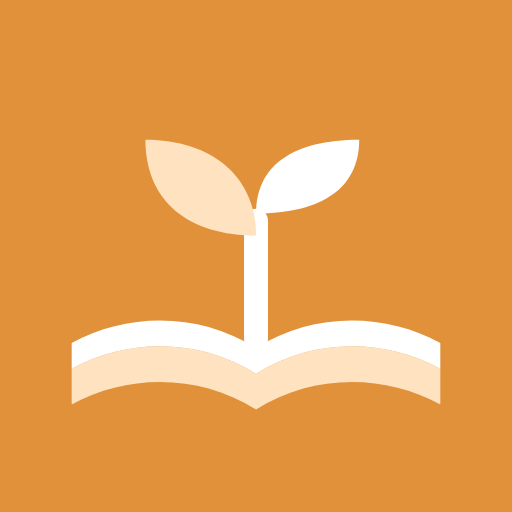
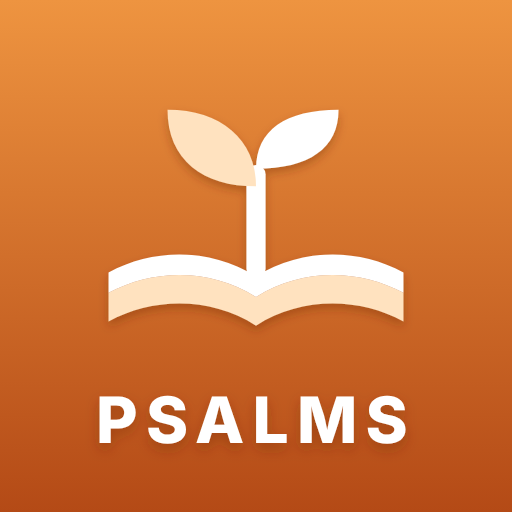
Add files via upload

diff --git a/index.html b/index.html
@@ -241,7 +241,7 @@ button:focus-visible{outline:2.5px solid var(--amber);outline-offset:3px;border-
 /* 4단계: 설치 안내 */
 .ob{position:fixed;inset:0;z-index:40;overflow:auto;background:linear-gradient(180deg,var(--glow) 0,var(--glow2) 260px,var(--paper) 460px)}
 .ob .obin{max-width:440px;min-height:100%;margin:0 auto;display:flex;flex-direction:column;align-items:center;text-align:center;padding:calc(env(safe-area-inset-top,0px) + 120px) var(--side) calc(env(safe-area-inset-bottom,0px) + 32px)}
-.ob .ic{width:84px;height:84px;border-radius:22px;overflow:hidden;box-shadow:0 10px 24px rgba(224,145,58,.28)}
+.ob .ic{width:84px;height:84px;border-radius:22px;overflow:hidden;box-shadow:0 10px 24px rgba(180,74,22,.28)}
 .ob .ic svg{display:block;width:100%;height:100%}
 .ob .nm{font-size:15px;font-weight:700;color:var(--sub);margin-top:12px}
 .ob h2{margin:34px 0 0;font-size:22px;font-weight:800;letter-spacing:-.6px;line-height:1.4}
@@ -258,6 +258,15 @@ button:focus-visible{outline:2.5px solid var(--amber);outline-offset:3px;border-
 .ob .steps div{display:flex;align-items:center;gap:10px;font-size:16px;font-weight:700}
 .ob .steps em{font-style:normal;width:26px;height:26px;border-radius:50%;background:var(--amber);color:#fff;font-size:14px;display:flex;align-items:center;justify-content:center;flex-shrink:0}
 .ob .prep{margin-top:30px;font-size:15px;color:var(--sub)}
+.ob .wrap{position:relative;margin-top:34px}
+.ob .big{width:112px;height:112px;border-radius:28px;overflow:hidden;box-shadow:0 12px 28px rgba(180,74,22,.32)}
+.ob .big svg{width:100%;height:100%;display:block}
+.ob .badge{position:absolute;right:-10px;top:-10px;width:34px;height:34px;border-radius:50%;background:#3E9B5B;border:3px solid var(--paper);display:flex;align-items:center;justify-content:center}
+.ob .bn{font-size:15px;font-weight:700;margin-top:10px}
+.ob .stps{display:flex;flex-direction:column;align-items:flex-start;gap:10px;margin-top:24px;text-align:left}
+.ob .stp{display:flex;align-items:center;gap:10px;font-size:16.5px;font-weight:700}
+.ob .stp em{font-style:normal;width:26px;height:26px;border-radius:50%;background:var(--amber);color:#fff;font-size:14px;display:flex;align-items:center;justify-content:center;flex-shrink:0}
+.ob .stp .k{width:34px;height:34px;border-radius:10px;background:var(--sheet);box-shadow:inset 0 0 0 1.4px var(--chipLine);display:flex;align-items:center;justify-content:center}
 .verlab{margin:0 var(--side) 30px;font-size:12px;color:var(--faint)}
 
 @media (prefers-reduced-motion:reduce){*{transition:none!important}}
@@ -914,7 +923,7 @@ setInterval(tick,30000);
 document.addEventListener("visibilitychange",function(){if(document.visibilityState==="visible")tick()});
 if(S.plan)autoNext();
 /* ---------- 설치 안내 (4단계) ---------- */
-var APP_VER="v16";
+var APP_VER="v17";
 var UA=navigator.userAgent||"";
 var IS_KAKAO=/KAKAOTALK/i.test(UA);
 var IS_IOS=/iPhone|iPad|iPod/i.test(UA)||(navigator.platform==="MacIntel"&&navigator.maxTouchPoints>1);
@@ -927,17 +936,17 @@ var installEvt=null,installStarted=false,instWaitDone=false;
 window.addEventListener("beforeinstallprompt",function(e){e.preventDefault();installEvt=e;if(obOpen())drawOb()});
 window.addEventListener("appinstalled",function(){installStarted=true;installEvt=null;if(obOpen())drawOb()});
 setTimeout(function(){instWaitDone=true;if(obOpen())drawOb()},4000);
-var ICON_SVG='<svg viewBox="0 0 100 100" aria-hidden="true"><rect width="100" height="100" fill="#E0913A"/><path d="M14 72c11-6 25-6 36 1 11-7 25-7 36-1v7c-11-6-25-6-36 1-11-7-25-7-36-1z" fill="#FFE2BF"/><path d="M14 67c11-6 25-6 36 1v5c-11-7-25-7-36-1z" fill="#fff"/><path d="M50 68c11-7 25-7 36-1v5c-11-6-25-6-36 1z" fill="#fff"/><g transform="translate(50 46) scale(.72) translate(-50 -52)"><path d="M50 80V48" stroke="#fff" stroke-width="6.5" stroke-linecap="round"/><path d="M50 52C50 36 38 26 20 26c0 17 12 26 30 26z" fill="#FFE2BF"/><path d="M50 46c0-13 10-20 28-20 0 13-10 20-28 20z" fill="#fff"/></g></svg>';
+var ICON_SVG='<svg aria-hidden="true" viewBox="0 0 100 100"><defs><linearGradient id="gpz" x1="0" y1="0" x2="0" y2="1"><stop offset="0" stop-color="#EE9440"/><stop offset="1" stop-color="#B44A16"/></linearGradient><filter id="spz" x="-20%" y="-20%" width="140%" height="140%"><feDropShadow dx="0" dy="1.2" stdDeviation="1.2" flood-color="#6B2E05" flood-opacity=".35"/></filter></defs><rect width="100" height="100" fill="url(#gpz)"/><g transform="translate(50 42) scale(.8) translate(-50 -53)" filter="url(#spz)"><path d="M14 72c11-6 25-6 36 1 11-7 25-7 36-1v7c-11-6-25-6-36 1-11-7-25-7-36-1z" fill="#FFE2BF"/><path d="M14 67c11-6 25-6 36 1v5c-11-7-25-7-36-1z" fill="#fff"/><path d="M50 68c11-7 25-7 36-1v5c-11-6-25-6-36 1z" fill="#fff"/><g transform="translate(50 46) scale(.72) translate(-50 -52)"><path d="M50 80V48" stroke="#fff" stroke-width="6.5" stroke-linecap="round"/><path d="M50 52C50 36 38 26 20 26c0 17 12 26 30 26z" fill="#FFE2BF"/><path d="M50 46c0-13 10-20 28-20 0 13-10 20-28 20z" fill="#fff"/></g></g><text x="50" y="86.5" text-anchor="middle" font-family="Inter" font-weight="800" font-size="12.5" letter-spacing="1.6" fill="#fff" filter="url(#spz)">PSALMS</text></svg>';
 function obIc(n,s){return '<svg width="'+(s||20)+'" height="'+(s||20)+'" viewBox="0 0 24 24" fill="none" stroke="currentColor" stroke-width="2.2" stroke-linecap="round" stroke-linejoin="round" aria-hidden="true">'+n+'</svg>'}
 var IC_SHARE=obIc('<path d="M12 3v12M7 8l5-5 5 5"/><path d="M5 12v7a2 2 0 0 0 2 2h10a2 2 0 0 0 2-2v-7"/>'),IC_PLUS=obIc('<rect x="4" y="4" width="16" height="16" rx="3"/><path d="M12 8v8M8 12h8"/>'),
   IC_UP=obIc('<path d="M7 17L17 7M9 7h8v8"/>'),IC_DL=obIc('<path d="M12 4v11M7 10l5 5 5-5M5 20h14"/>'),IC_DOTS=obIc('<circle cx="5" cy="12" r="1.3" fill="currentColor"/><circle cx="12" cy="12" r="1.3" fill="currentColor"/><circle cx="19" cy="12" r="1.3" fill="currentColor"/>'),
-  IC_VDOTS=obIc('<circle cx="12" cy="5" r="1.3" fill="currentColor"/><circle cx="12" cy="12" r="1.3" fill="currentColor"/><circle cx="12" cy="19" r="1.3" fill="currentColor"/>'),IC_OK=obIc('<path d="M5 12.5l4.5 4.5L19 7.5"/>',30);
+  IC_VDOTS=obIc('<circle cx="12" cy="5" r="1.3" fill="currentColor"/><circle cx="12" cy="12" r="1.3" fill="currentColor"/><circle cx="12" cy="19" r="1.3" fill="currentColor"/>'),IC_OK='<svg width="16" height="16" viewBox="0 0 24 24" fill="none" stroke="#fff" stroke-width="3.2" stroke-linecap="round" stroke-linejoin="round" aria-hidden="true"><path d="M5 12.5l4.5 4.5L19 7.5"/></svg>',IC_X=obIc('<path d="M6 6l12 12M18 6L6 18"/>',18);
 var obEl=null,obForce=false;
 function obOpen(){return !!(obEl&&document.body.contains(obEl))}
 function head(){return '<div class="ic">'+ICON_SVG+'</div><div class="nm">시편 읽기표</div>'}
 function obBody(){
   if(IS_STANDALONE) return head()+'<h2>이미 설치되어 있어요</h2><p class="pp">홈 화면의 새싹 아이콘으로 열면 돼요</p><button type="button" class="later" data-ob="close">닫기</button>';
-  if(installStarted) return '<div class="chk" style="color:var(--amber)">'+IC_OK+'</div><h2>설치하고 있어요</h2><p class="pp">이 창은 닫고, 새싹 아이콘으로<br>열어 주세요</p><p class="sm">아이콘이 안 보이면 앱스 화면에서 찾아 주세요</p><button type="button" class="later" data-ob="close">알겠어요</button>';
+  if(installStarted) return '<h2 style="margin-top:0">설치가 끝났어요</h2><p class="pp">이제 앱으로 열어 주세요</p><div class="wrap"><div class="big">'+ICON_SVG+'</div><div class="badge">'+IC_OK+'</div></div><div class="bn">시편 읽기표</div><div class="stps"><div class="stp"><em>1</em>이 인터넷 창 닫기 <span class="k">'+IC_X+'</span></div><div class="stp"><em>2</em>휴대폰 화면에서 이 아이콘 누르기</div></div><p class="sm">아이콘이 안 보이면 앱스 화면에서 찾아 주세요</p><button type="button" class="later" data-ob="close">알겠어요</button>';
   if(IS_IOS){
     if(IS_KAKAO) return head()+'<h2>사파리로 열어 주세요</h2><p class="pp">카카오톡 안에서는 설치가 안 되고<br>기록이 사라질 수 있어요</p><div class="steps"><div><em>1</em>오른쪽 아래 '+IC_DOTS+' 누르기</div><div><em>2</em>Safari로 열기</div></div><p class="sm">안 되면 <button type="button" data-ob="copy">주소 복사하기</button></p><button type="button" class="later" data-ob="close">그냥 여기서 볼게요</button>';
     return head()+'<h2>홈 화면에 추가해요</h2><p class="pp">아래 두 개만 눌러 주세요</p><div class="pair"><span class="k">'+IC_SHARE+'</span>공유<span class="ar">›</span><span class="k">'+IC_PLUS+'</span>홈 화면에 추가</div><p class="sm">공유 버튼은 화면 아래(또는 주소창 옆)에 있어요</p><button type="button" class="later" data-ob="close">나중에 할게요</button>';

diff --git a/sw.js b/sw.js
@@ -1,5 +1,5 @@
 /* 시편 읽기표 오프라인 파일 — 고칠 때마다 VER 숫자를 올려 주세요 */
-var VER="psalm-v16";
+var VER="psalm-v17";
 var FILES=["./","index.html","manifest.webmanifest","icon-192.png","icon-512.png","icon-maskable-512.png","apple-touch-icon.png","favicon-32.png"];
 self.addEventListener("install",function(e){
   e.waitUntil(caches.open(VER).then(function(c){return c.addAll(FILES)}).then(function(){return self.skipWaiting()}));

diff --git a/README.md b/README.md
@@ -1,4 +1,4 @@
-# 시편 읽기표 v16
+# 시편 읽기표 v17
 
 시편 150편 읽기 체크 앱입니다. (성경 본문은 없고, 읽은 편만 체크합니다)
 
@@ -16,7 +16,7 @@
 
 ## 고칠 때
 - `index.html` 을 바꿔 올리면 다음에 앱을 열 때 새 버전이 보여요.
-- 같이 `sw.js` 첫 줄의 `psalm-v16` 숫자도 올려 주세요 (예: `psalm-v17`).
+- 같이 `sw.js` 첫 줄의 `psalm-v17` 숫자도 올려 주세요 (예: `psalm-v18`).
 
 ## 주의
 - 기록은 각자 휴대폰(그 브라우저)에만 저장돼요. 다른 폰으로 옮길 때는 설정 → 기록 내보내기/불러오기를 써요.
